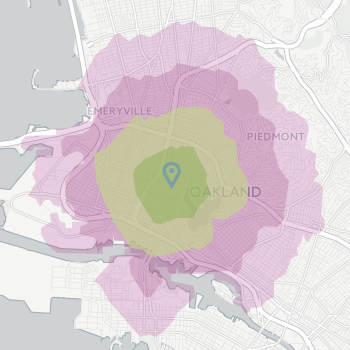
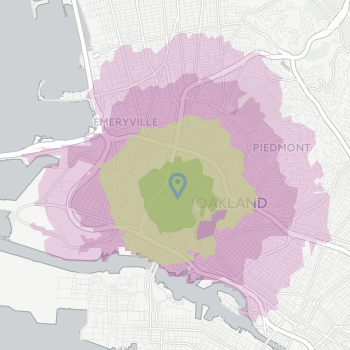
add new images, update isochrones

diff --git a/explorer/tutorial.md b/explorer/tutorial.md
@@ -1,12 +1,14 @@
-# Explore routes and stops
+# Explore transit routes, stops, and travel times
 
-[Mobility Explorer](https://mapzen.com/mobility/explorer) highlights the connections between transit datasets, including among different transportation modes and operators. In this tutorial, you will use Mobility Explorer to ask questions about routes and stops and make your own transit map.
+[Mobility Explorer](https://mapzen.com/mobility/explorer) highlights the connections between transit datasets, including among different transportation modes and operators. In this tutorial, you will use Mobility Explorer to ask questions about routes and stops, filter the kinds of transit data displayed on a map, and view travel times from a place. You can use these queries to build a custom transit map.
 
-You can follow along with the location in the tutorial, or choose your own region.
+You will use Mobility Explorer to query and visualize transit data from [Transitland](https://transit.land), a community-edited, open transit data aggregation project that Mapzen sponsors, and to analyze access using other Mapzen Mobility services, including [Mapzen Isochrone](https://mapzen.com/documentation/mobility/isochrone/api-reference/).
+
+You can follow along with the location example used in the tutorial, or choose your own address or place to view transit in that area.
 
 To complete the tutorial, all you need is a browser and an Internet connection while you are working. No special knowledge of coding or transit data is needed. The tutorial should take about an hour to complete.
 
-## Get to know Transitland
+## Get to know Transitland data
 
 [Transitland](https://transit.land) is an open-source database of transit information, and brings together many sources of transit data to build a directory of operators and feeds that can be edited by transit enthusiasts and developers. Transitland is the source of transit data you see and query in Mobility Explorer, as well as the multimodal routing for [Mapzen Turn-by-Turn](https://mapzen.com/documentation/mobility/turn-by-turn/api-reference/).
 
@@ -28,16 +30,19 @@ Each query or map update is maintained as a separate URL, which means that you c
 
 1. In your browser, go to https://mapzen.com/mobility/explorer/. Mobility Explorer opens to a default location, with a map on the right and a sidebar on the left where you can visualize and analyze transit data.
 2. In the search box on the map, type `Oakland, California`. The search box uses Mapzen Search, Mapzen's open-source geocoder, and the text automatically completes as you type. When you press Enter, the map extent updates and adds a pin in Oakland.
+  ![Map showing Oakland, California](/images/mobility-explorer-oakland-point.png)
 3. On the left, under `Visualize public transit networks`, click `Show Operators`. This shows polygons representing the area served by the transit service provided by each operator. Essentially, the polygon is created by drawing a line that connects at the endpoints of the transit routes for that operator.
+  ![Transit operators near Oakland, California](/images/mobility-explorer-operator-polygons.png)
 4. Hover over the polygons on the map to see the operator name.
   Sometimes, it can be hard to get information about a polygon because it is overlapped by other polygons. You can use the drop-down list of operators to see the service area.
 5. Click the drop-down list of operators and click `Bay Area Rapid Transit (BART)`, which is a light-rail commuter train and subway system, to see where this operator serves.
+  ![Transit operators near Oakland, California](/images/mobility-explorer-operator-details-bart.png)
   The sidebar shows details about the operator, including its name and website, and something called a Onestop ID. Under the operator details, there are also links to view the routes and stops for this operator.
   A Onestop ID is a unique identifier from Transitland that helps label and connect data about public transit that are coming from many agencies. BART's Onestop ID is `o-9q9-bart`, with the first letter `o` indicating it is identifying an `operator`.
 6. Zoom out so you can see the entire BART polygon by using the buttons on the map or your mouse wheel.
   ![Area of BART service area](/images/mobility-explorer-bart-polygon.png)
 7. Click `View routes operated by Bay Area Rapid Transit` on the sidebar. Behind the scenes, this is querying the datastore for the transit route lines. In addition, when you do this, Mobility Explorer expands the `Show routes` section.
-8. Explore BART's routes by hovering over a line on the map. The colors of the lines are listed in the source GTFS data, and are used to display the lines in Mobility Explorer.
+8. Explore BART's routes by hovering over a line on the map. The colors of the lines are listed in the source GTFS data, and are used to display the lines in Mobility Explorer. _Note: Right now, the route lines overlap each other when they should be offset so you can see all of them at once._
   ![Hover over a route for basic information](/images/mobility-explorer-bart-route-hover.png)
 9. Look in the `Show routes` section for the name of the route. If you click a route on the map or in the drop-down list, you can get even more information about the route.
   ![Choose a route to get details about it](/images/mobility-explorer-bart-route-details.png)
@@ -67,8 +72,10 @@ _Tip: Any time you want to start over with your search, click `Show routes` to s
 7. Check the box to `Show stops served by this route` to see dots on the map representing bus stops.
   ![Stops along route 12](/images/mobility-explorer-route12-stops.png)
   The route line and stops that are displayed by default are a representation of the most common shape of that route. However, a route may be different at certain times, for example, in inbound or return directions, or to consider one-way roads. These differences are known as a RouteStopPattern in the Transitland API.
-8. Click the link to `Show route stop patterns` to view the unique combinations of shape lines for trips and stops along this route. For this route, there are two patterns, which you can click to see the differences between them.
+8. Click the link to `Show route stop patterns` to view the unique combinations of shape lines for trips and stops along this route.
   ![RouteStopPattern for route 12](/images/mobility-explorer-route12-rsp.png)
+9. Click each of the patterns to view them on the map. For example, you can see segments of the route where there are differences because road is divided with a median in between lanes.
+  ![Details of RouteStopPattern showing differences](/images/mobility-explorer-route12-rsp-details.png)
 
 ## Explore transit stops near a location
 
@@ -99,13 +106,15 @@ The analysis comes from the [Mapzen Isochrone](https://mapzen.com/documentation/
 2. Under `Analyze access`, click `Generate isochrones`.
 3. Click the option for `walking` to see where you can walk from this point.
   ![Generate isochrones for walking](/images/mobility-explorer-isochrones-walking.png)
-  The map updates to show color-coded rings that represent where you can reach within 15-, 30-, 45-, and 60-minute time increments. You may need to zoom out to see the entire walkshed area.
+  The map updates to show color-coded rings that represent where you can reach within 15-, 30-, 45-, and 60-minute time increments. You may need to zoom out to see the entire walkshed area. Notice that you cannot reach Alameda (the island area to the south of Oakland) by walking from this point because there is no direct pedestrian access from here. It requires taking either ferry or having a vehicle to cross over by tunnel.
   ![Map of isochrones for walking](/images/mobility-explorer-isochrones-walking-map.png)
-4. Try the biking and driving options to see how the shapes compare to walking. _Note: The driving map does not yet consider current traffic conditions._
+4. Try the biking and driving options to see how the shapes compare to walking. With a bicycle or car, you could get to Alameda (by bicycle because you can access a bridge toward the southeast or by car because you can take the tunnel.) _Note: The driving map does not yet consider current traffic conditions._
 5. Click `transit` to view where you can travel by transit. By default, isochrones are calculated for the current time.
 6. Click the clock button and try changing the departure time to be during workday commute hours, weekends, and after midnight to see the differences. Typically, transit service is reduced at night and on weekends, so it is likely that the polygons are much smaller then than during working hours.
 
-In earlier exercises, your requests have been to the Transitland API. Isochrones, however, use the Mapzen Mobility API. You can see the Mapzen Mobility API request using the link on the sidebar. For example, a request for pedestrian isochrones takes the form of https://matrix.mapzen.com/isochrone?json=%7B%22locations%22:%5B%7B%22lat%22:%2237.811204%22,%22lon%22:%22-122.267494%22%7D%5D,%22costing%22:%22pedestrian%22,%22denoise%22:0.3,%22polygons%22:true,%22generalize%22:50,%22costing_options%22:%7B%22pedestrian%22:%7B%22use_ferry%22:0%7D%7D,%22contours%22:%5B%7B%22time%22:15%7D,%7B%22time%22:30%7D,%7B%22time%22:45%7D,%7B%22time%22:60%7D%5D%7D
+Notice that there are some areas that are disconnected from the main groupings in Oakland. These rings surround distant train stations or ferry terminals.
+
+In earlier exercises, your requests have been to the Transitland API, but isochrones use the Mapzen Mobility API. You can see the Mapzen Mobility API request using the link on the sidebar.
 
 ## See the effect on travel times if you remove certain operators or routes
 
@@ -113,7 +122,7 @@ You can exclude operators and routes to see the effect on the resulting isochron
 
 1. Make sure you have a point on the map. If not, repeat the search for `2201 Broadway, Oakland` to return to your original location, and click `Generate isochrones`.
 2. Click `transit`. Optionally, choose the date and time of your departure, if you want to travel at a time different from the present. _Note: These images reflect travel during a weekday in morning commute hours._
-  ![Map of isochrones for transit](/images/mobility-explorer-isochrones-transit.png)
+  ![Map of isochrones for transit](/images/mobility-explorer-isochrones-transit-region.png)
 3. Click `Include or exclude operators`.
 4. Under the `Exclude` column, check `Bay Area Rapid Transit` to see where you can go without taking BART.
   ![Remove BART from transit options](/images/mobility-explorer-isochrones-transit-nobart.png)
